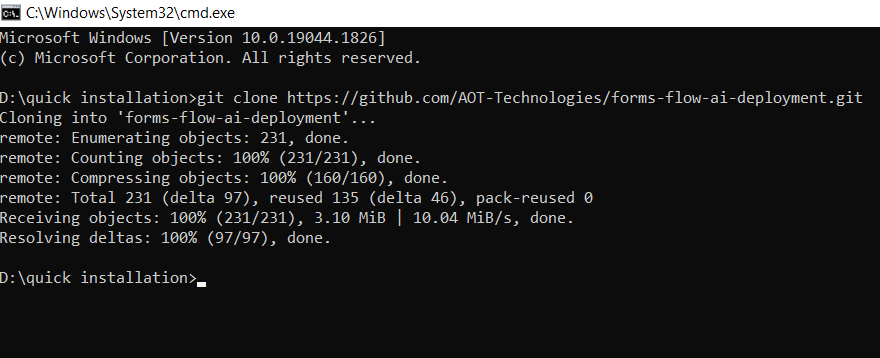
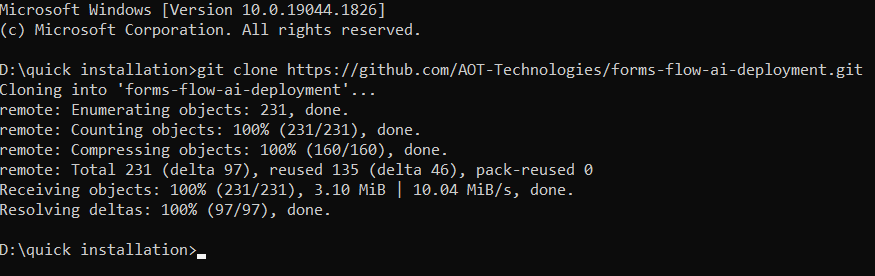
Updated export pdf and some other screenshorts

Changed region(s): [[0.0, 0.2319, 0.9874, 0.8116], [0.0, 0.0, 1.0, 0.2029], [0.0, 0.8696, 0.2469, 0.9565]]

diff --git a/exportpdf.html b/exportpdf.html
@@ -61,7 +61,7 @@
 
 
 
-            <pre class="prettyprint"><code>CHROME_DRIVER_PATH=C:\driver\chromedriver.exe</code>
+            <pre class="prettyprint"><code>     CHROME_DRIVER_PATH=C:\driver\chromedriver.exe</code>
                 </pre>
 
 
@@ -71,7 +71,7 @@
 
 
 
-            <pre class="prettyprint"><code>CHROME_DRIVER_PATH=/usr/local/bin/chromedriver</code>
+            <pre class="prettyprint"><code>     CHROME_DRIVER_PATH=/usr/local/bin/chromedriver</code>
                 </pre>
 
 
@@ -86,33 +86,49 @@
                 shown below
             </p>
             <p>
-                Dockerfile
+                <ul>
+                    <li>  Dockerfile</li>
+               
             </p>
             <pre><code class="hljs">
                  
-# Install Chrome WebDriver
-RUN CHROMEDRIVER_VERSION=`curl -sS chromedriver.storage.googleapis.com/LATEST_RELEASE` && \
-    mkdir -p /opt/chromedriver-$CHROMEDRIVER_VERSION && \
-    curl -sS -o /tmp/chromedriver_linux64.zip http://chromedriver.storage.googleapis.com/$CHROMEDRIVER_VERSION/chromedriver_linux64.zip && \
-    unzip -qq /tmp/chromedriver_linux64.zip -d /opt/chromedriver-$CHROMEDRIVER_VERSION && \
-    rm /tmp/chromedriver_linux64.zip && \
-    chmod +x /opt/chromedriver-$CHROMEDRIVER_VERSION/chromedriver && \
-    ln -fs /opt/chromedriver-$CHROMEDRIVER_VERSION/chromedriver /usr/local/bin/chromedriver
+    # Install Chrome WebDriver
+    RUN CHROMEDRIVER_VERSION=`curl -sS chromedriver.storage.googleapis.com/LATEST_RELEASE` && \
+        mkdir -p /opt/chromedriver-$CHROMEDRIVER_VERSION && \
+        curl -sS -o /tmp/chromedriver_linux64.zip http://chromedriver.storage.googleapis.com/$CHROMEDRIVER_VERSION/chromedriver_linux64.zip && \
+        unzip -qq /tmp/chromedriver_linux64.zip -d /opt/chromedriver-$CHROMEDRIVER_VERSION && \
+        rm /tmp/chromedriver_linux64.zip && \
+        chmod +x /opt/chromedriver-$CHROMEDRIVER_VERSION/chromedriver && \
+        ln -fs /opt/chromedriver-$CHROMEDRIVER_VERSION/chromedriver /usr/local/bin/chromedriver
  
-# Install Google Chrome
-RUN curl -sS -o - https://dl-ssl.google.com/linux/linux_signing_key.pub | apt-key add - && \
-    echo "deb http://dl.google.com/linux/chrome/deb/ stable main" >> /etc/apt/sources.list.d/google-chrome.list && \
-    apt-get -yqq update && \
-    apt-get -yqq install google-chrome-stable && \
-    rm -rf /var/lib/apt/lists/*
+    # Install Google Chrome
+        RUN curl -sS -o - https://dl-ssl.google.com/linux/linux_signing_key.pub | apt-key add - && \
+        echo "deb http://dl.google.com/linux/chrome/deb/ stable main" >> /etc/apt/sources.list.d/google-chrome.list && \
+        apt-get -yqq update && \
+        apt-get -yqq install google-chrome-stable && \
+        rm -rf /var/lib/apt/lists/*
  
  
-# set display port to avoid crash
-ENV DISPLAY=:99
+    # set display port to avoid crash
+        ENV DISPLAY=:99
 
             </code></pre>
 
+<li>The export feature can be enabled for Formsflow web by enabling a few env.
+</li>
+<pre>
+    <code>
+    # To enable export feature in UI
+    REACT_APP_EXPORT_PDF_ENABLED=true
+ 
+ 
+    # Url of python document service url
+    REACT_APP_DOCUMENT_SERVICE_URL=<<yourIP:port>> 
 
+    </code>
+</pre>
+</ul>
+              
         </div>
     </section>
 </article>

diff --git a/custom_submission.html b/custom_submission.html
@@ -11,12 +11,20 @@
                 A Rest API is needed to support this where customer can add this Rest API to their choice of database and provide the required endpoints. 
                 A reference implementation can be found <a href="https://github.com/AOT-Technologies/forms-flow-ai-submissions/tree/develop/forms-flow-submissions" target="_blank">here</a>
             </p>
+            
             <p>This feature requires the following env variables set:</p>
-            <ul>
+            <pre>
+                <code>
+        #custom submission
+        CUSTOM_SUBMISSION_ENABLED=false
+        CUSTOM_SUBMISSION_URL=http://{your-ip-address}:{port}
+                </code>
+            </pre>
+            <!-- <ul>
                 <li>CUSTOM_SUBMISSION_ENABLED=true
                 </li>
                 <li>CUSTOM_SUBMISSION_URL=http://{your-ip-address}:{port}</li>
-            </ul>
+            </ul> -->
             <p>
                 Form Adapter uses custom submission URLs to create, submit, get and edit submissions
                 within a form to the preferred database. These URLs follow the same URL pattern as the
@@ -35,7 +43,8 @@
             </p>
             <h5><b>BODY</b></h5>
             <pre>
-                    <code class="hljs"> <br>                                 {
+                    <code class="hljs"> <br>                     
+                 {
                         "data": {
                             "name": "John",
                             "age": 21,
@@ -80,19 +89,19 @@
 
             <h5>Response</h5>
             <pre><code class="hljs"><br>
-{
-"created": "2022-08-03 09:32:59.448886",
-"_id": "04016fac-8811-4762-859b-0c664c2490b5",
-"form": "62da4ec3e44bcd4da0454ae1",
-"data": {
-    "name": "John",
-    "age": 21,
-        "applicationStatus": "",
-        "applicationId": ""
+    {
+        "created": "2022-08-03 09:32:59.448886",
+        "_id": "04016fac-8811-4762-859b-0c664c2490b5",
+        "form": "62da4ec3e44bcd4da0454ae1",
+        "data": {
+            "name": "John",
+            "age": 21,
+                "applicationStatus": "",
+                "applicationId": ""
 
-},
- "modified": "2022-08-03 09:32:59.448893"
-}
+                },
+            "modified": "2022-08-03 09:32:59.448893"
+    }
 </code></pre>
 
 
@@ -110,14 +119,14 @@
 
             <h5><b>BODY</b></h5>
             <pre><code class="hljs"><br>
-{
-"data": {
+    {
+      "data": {
             "name": "John Joe",
             "age": 22,
             "applicationStatus": "",
             "applicationId": ""
-}
-}
+              }
+    }
 </code></pre>
             <h3>Partial Update a Submission</h3>
 
@@ -132,12 +141,12 @@
 
             <h5><b>BODY</b></h5>
             <pre><code class="hljs"><br>
-{
-"data": {
+    {
+      "data": {
           "applicationStatus": "New",
           "applicationId": "1234"
-}
-}
+              }
+    }
 </code></pre>
 <p><strong>NOTE</strong>: In case of reviewer actions, if submission data need to be updated directly from the form, call customSubmissionUrl instead of formio. 
 </p>

diff --git a/formsflow_bpm.html b/formsflow_bpm.html
@@ -221,32 +221,33 @@
 							</ul>
 
 							<img src="./assets/images/clientsecret.png" width="700" height="400"></img><br><br>
-							<p>The KEYCLOAK_BPM_CLIENT_SECRET provided is the default value and each time you install the
+							<p>The KEYCLOAK_BPM_CLIENT_SECRET provided is the default value and each time you install
+								the
 								project you need to regenerate the SECRET key.</p>
 							<h4 id="bpmclientsecret"> Get the Keycloak bpm client secret</h4>
 							<ul>
 								<li>Go to <a href="http://localhost:8080">http://localhost:8080</a> in the browser</li>
 								<li> Login to KeyCloak Realm with admin privileges </li>
 								<li> Configure > Clients > </li>
-								<li>Click on Client ID = forms-flow-bpm </li><br>
-								
-							<img src="./assets/images/keycloak.png" width="1000" height="500"></img>
-
-							<br><br>
-							<li> Got to Credentials Tab</li>
+								<li>Click on Client ID = forms-flow-bpm </li>
+								<li> Got to Credentials Tab</li>
 								<li>Regenerate the secret and copy the value</li>
-							</ul>
-							<br>
-							<img src="./assets/images/env1.png" height="150" width="700"></img>
-							<img src="./assets/images/env2.png" height="300" width="700"></img>
+								<img src="./assets/images/keycloak.png" width="1000" height="500"></img>
 
-							<img src="./assets/images/Screenshot 2022-06-10 115356.png" width="700" height="400"></img>
+								<br><br>
+								
+							</ul>
+							<p>Modify {your-ip-address} given inside the .env file to your host system
+								IP address. Please take special care to identify the correct IP address if your system
+								has multiple network cards.</p>
 							<br>
+							<img src="./assets/images/env1.png" height="180" width="700"></img>
+							<img src="./assets/images/Screenshot 2022-06-10 115356.png" width="700" height="400"></img>
 							<img src="./assets/images/Screenshot 2022-06-10 115423.png" width="700" height="450"></img>
 							<img src="./assets/images/Screenshot 2022-08-17 174912.png" width="700" height="250"></img>
 							<br><br>
 
-							
+
 							<div class="callout-block callout-block-info">
 								<div class="content">
 									<span class="callout-icon-holder me-1"></span>

diff --git a/sentiment_analysis.html b/sentiment_analysis.html
@@ -8,7 +8,7 @@
                 language model which helps machines learn excellent representations of text with respect to the context
                 in many natural language tasks.
             </p><br>
-            <h3>Data Analysis API(link to data-analysis-api folder)</h3>
+            <h3>Data Analysis API<a href="https://github.com/AOT-Technologies/forms-flow-ai/tree/develop/forms-flow-data-analysis-api">(link to data-analysis-api folder)</a></h3>
             <p>Data Analysis API is used to understand the customer's sentiments whether they feel positive, negative,
                 or neutral about it. </p>
                 <p>Make sure your current working directory is <code> cd {Your Directory}/forms-flow-ai/forms-flow-data-analysis-api</code></p>
@@ -53,7 +53,7 @@
                 </code>
             </pre>
             <br>
-            <h4>Model description (https://huggingface.co/Seethal/sentiment_analysis_generic_dataset)</h4>
+            <h4>Model description <a href="https://huggingface.co/Seethal/sentiment_analysis_generic_dataset">(https://huggingface.co/Seethal/sentiment_analysis_generic_dataset)</a></h4>
             <p>This is a fine-tuned downstream version of the bert-base-uncased model for sentiment analysis, this model
                 is not intended for further downstream fine-tuning for any other tasks. This model is trained on a
                 classified dataset for text classification.</p>
@@ -65,7 +65,7 @@
                 <li>A form designer can drag and drop Text Area with Analytics component and associated with the
                     corresponding workflow. This activates the sentiment analysis component.
                 </li><br>
-                <img src="./assets/images/sentiment1.png" width="1000" height="500"><br><br>
+                <img src="./assets/images/sentiment1.png" width="800" height="300"><br><br>
                 <li>Based on the input responses of the user, formsflow.ai process sentiment associated with each user's
                     responses and the response will be patched to submission data by the Camunda listener. For this it requires the following env:
                 </li>

diff --git a/quick_installation.html b/quick_installation.html
@@ -28,15 +28,15 @@
             <ol type="a">
                 <li>Expand the option code and clone the Github repository url
                 </li><br><br>
-                <img src="./assets/images/clone.png" height="500" width="1000"></img><br><br>
+                <img src="./assets/images/clone.png" height="450" width="800"></img><br><br>
                 <li>Create a new folder or open any folder on your machine, open the command prompt for the folder and
                     clone this repository to the folder using the command git clone &lt;repo name&gt;</repo>
                 </li><br><br>
-                <img src="./assets/images/quickinstallation.png" height="300" width="1000"></img><br><br>
+                <img src="./assets/images/quickinstallation.png" height="150" width="800"></img><br><br>
                 <li>Once the repository is copied, the command prompt will display done, and all the folders in the
                     Repository will be present in the respective local folder</li><br><br>
-                <img src="./assets/images/quickinstallation1.png" height="400" width="1000"></img><br><br><br>
-                <img src="./assets/images/folderstructure.png" height="200" width="1000"></img><br><br>
+                <img src="./assets/images/quickinstallation1.png" height="300" width="800"></img><br><br><br>
+                <img src="./assets/images/folderstructure.png" height="200" width="800"></img><br><br>
             </ol>
             <li>Open the folder forms-flow-ai deployment>>Scripts>>Run the Intsall.bat/install.bash file for
                 Windows/Linux respectively.</li>

diff --git a/docker_full_deployment.html b/docker_full_deployment.html
@@ -52,10 +52,12 @@
                     <br>
                 <code>NOTE :{your-ip-address} given inside the .env file should be changed to your host system IP address.
                 Please take special care to identify the correct IP address if your system has multiple network cards.</code>
-                <br><br>
-                <br><br>
+                <br><br><br>
+                <img src="./assets/images/clientsecret.png" height="250" width="600"></img><br><br>
+                <p>KEYCLOAK_BPM_CLIENT_SECRET provided in the <strong> sample.env</strong> is the default one.To generate new secret click <a href="formsflow_bpm.html#bpmclientsecret">HERE</a> </p>
+                <br>
                 <img src="./assets/images/deployment_docker1.png" height="400" width="600"></img>
-                <img src="./assets/images/clientsecret.png" height="250" width="600"></img>
+               
                 <img src="./assets/images/deployment_docker2.png" height="200" width="600"></img>
                 <img src="./assets/images/deployment_docker3.png" height="500" width="600"></img>
                 <img src="./assets/images/deployment_docker4.png" height="500" width="600"></img>
@@ -63,7 +65,7 @@
                
             </ul>
         </ol><br>
-        <p>To get the Keycloak bpm client secret click <a href="formsflow_bpm.html#bpmclientsecret">Here</a></p>
+        
         <h4>Running the application</h4>
         <ul>
             <li>Run <code>docker-compose up -d</code> to start.</li>

diff --git a/multitenancy.html b/multitenancy.html
@@ -48,13 +48,13 @@
             <p>The script uses the process variable &quot;tenantKey&quot; to determine the candidate
                 group.</p>
             <pre><code class="hljs">        tenantKey = execution.getVariable(<span class="hljs-string">"tenantKey"</span>);
-<span class="hljs-keyword">if</span> (tenantKey){        
-<span class="hljs-attr">candidateGroup</span> = tenantKey + <span class="hljs-string">"-formsflow-reviewer"</span>;
-}
-<span class="hljs-keyword">else</span>{
-<span class="hljs-attr">candidateGroup</span> = <span class="hljs-string">"formsflow/formsflow-reviewer"</span>;
-}
-execution.setVariable(<span class="hljs-string">"candidateGroup"</span>, candidateGroup);
+<span class="hljs-keyword">              if</span>(tenantKey){        
+<span class="hljs-attr">                            candidateGroup</span> = tenantKey + <span class="hljs-string">"-formsflow-reviewer"</span>;
+                            }
+<span class="hljs-keyword">                     else</span>{
+<span class="hljs-attr">                             candidateGroup</span> = <span class="hljs-string">"formsflow/formsflow-reviewer"</span>;
+                            }
+            execution.setVariable(<span class="hljs-string">"candidateGroup"</span>, candidateGroup);
 </code></pre>
         </div>
 

diff --git a/camunda.html b/camunda.html
@@ -3,11 +3,12 @@
         <div>
             <h1>Camunda Filters</h1>
             <hr><br><br>
-            <img src="./assets/images/camunda_Filter1.png" height="500" width="1000"></img><br>
             <p>In Tasklist, you can create and select filters. You can use these filters to create lists
                 of tasks, sorted by specified criteria. To create a filter, select Create a Filter. You
                 will then see a screen as depicted in the above image. You have several options to
-                configure your filter:</p>
+                configure your filter:</p><br><br>
+            <img src="./assets/images/camunda_Filter1.png" height="500" width="1000"></img><br>
+           
             <ul>
                 <li><strong>General</strong> - Specify the name and description of the filter as well as
                     assigning a color. Assign a priority to determine the order in which the filters are

diff --git a/language.html b/language.html
@@ -40,7 +40,7 @@
 
                 <li>At 'resourceBundles/i18n.js' make the required changes as shown below for
                     'bg' : </li>
-
+<li>
                 <pre>
                 <code class="hljs">
 import i18n from "i18next";
@@ -89,7 +89,7 @@ export default i18n;
                       
                     
 </code>
-                </pre>
+                </pre></li>
         </div>
 
         <li>Open forms-flow-api/src/formsflow_api/utils/translations/translations.py , copy any set of translations

diff --git a/local_keycloaksetup.html b/local_keycloaksetup.html
@@ -1,12 +1,3 @@
-
-
-
-
-
-
-
-
-
 <!DOCTYPE html>
 <html lang="en">
 
@@ -325,7 +316,7 @@
 	<script src="assets/js/highlight-custom.js"></script>
 	<script src="assets/plugins/simplelightbox/simple-lightbox.min.js"></script>
 	<script src="assets/plugins/gumshoe/gumshoe.polyfills.min.js"></script>
-	
+	<script>hljs.initHighlighting();</script>
 
 </body>
 
